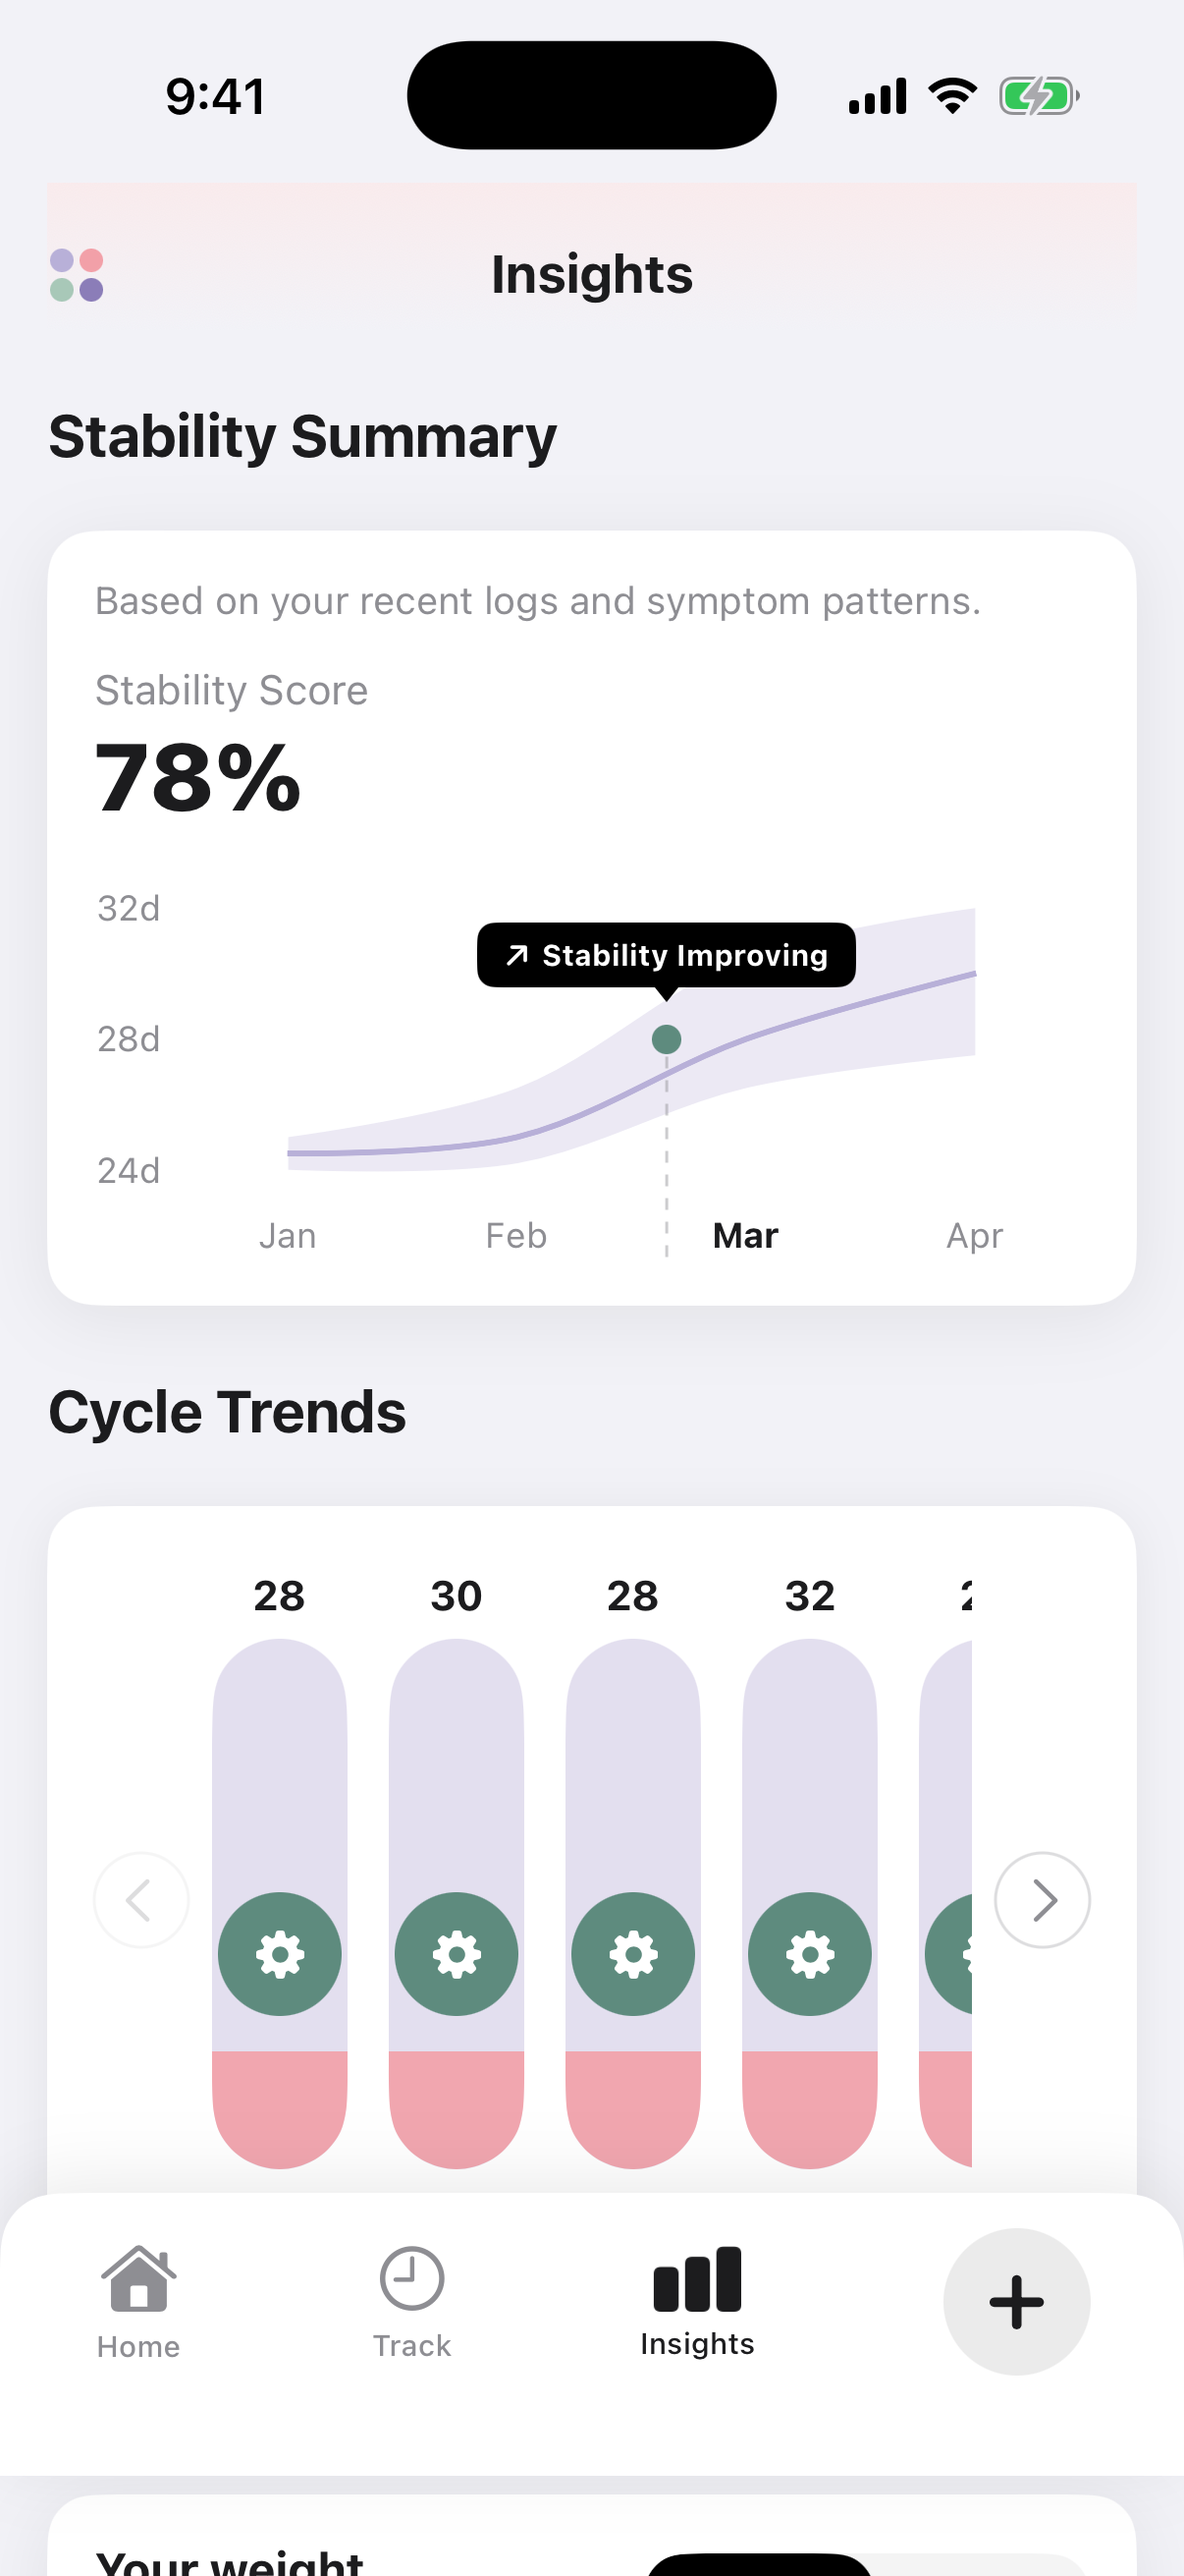
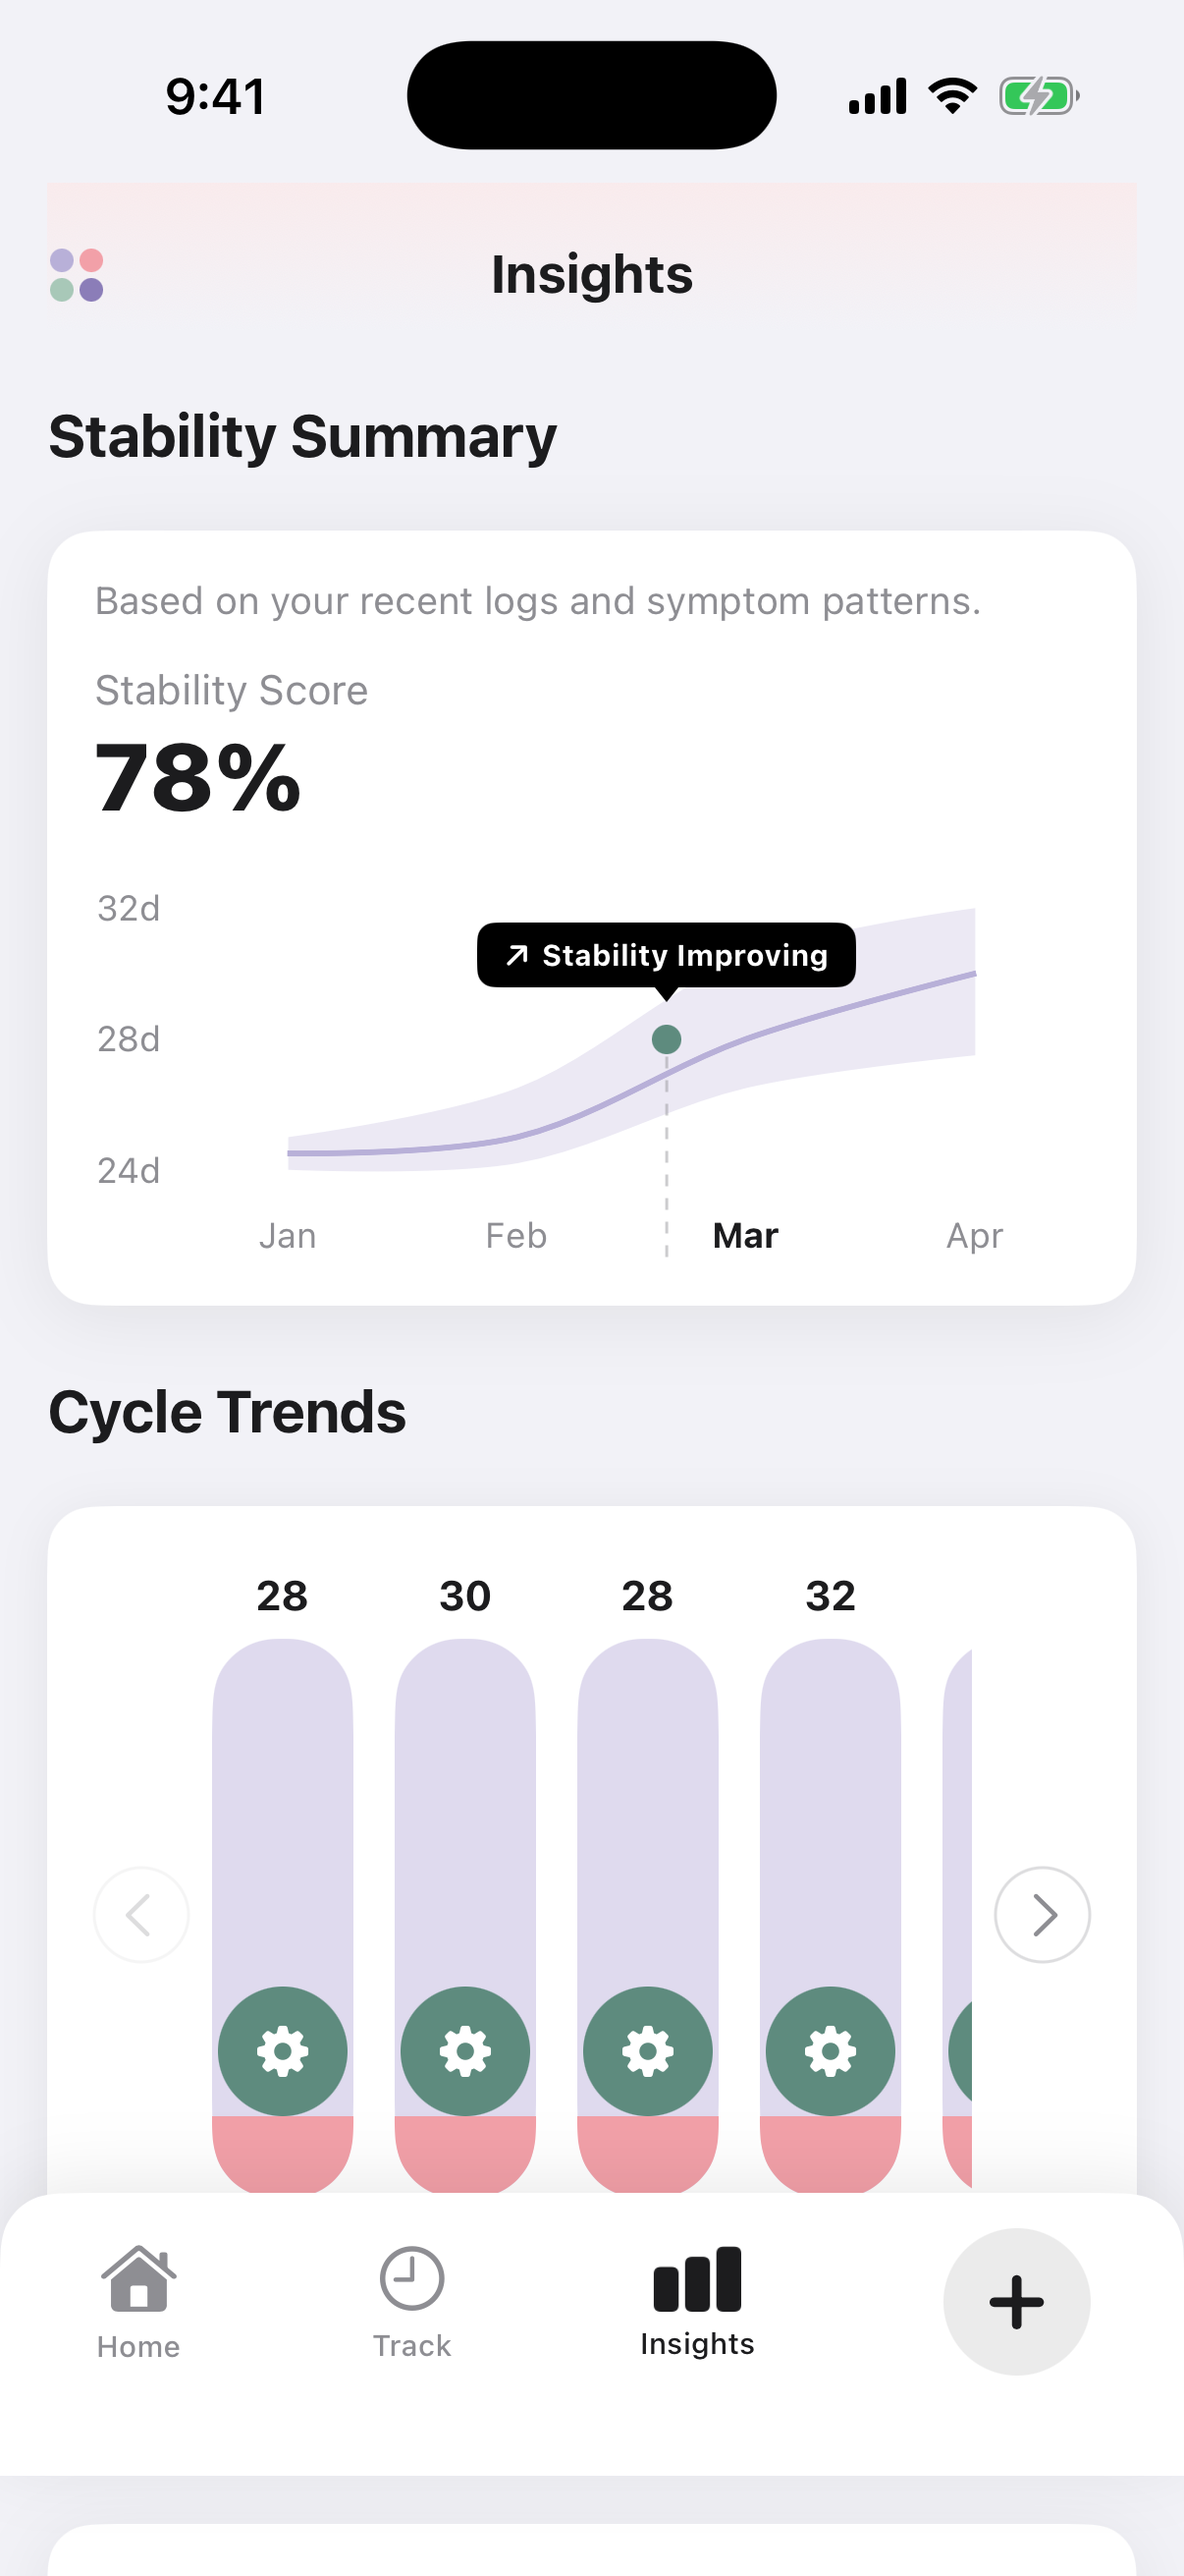
Refined CycleTrendBar proportions: increased pill height and updated gear junction

diff --git a/CycleInsights/InsightsView.swift b/CycleInsights/InsightsView.swift
@@ -427,31 +427,32 @@ private struct CycleTrendBar: View {
                 .foregroundColor(.darkText)
 
             ZStack(alignment: .bottom) {
-                // Full lavender pill background
-                RoundedRectangle(cornerRadius: 24)
-                    .fill(Color(hex: "C8C0E0").opacity(0.5))
-                    .frame(width: 46, height: 180)
+                // Full lavender pill — entire bar height
+                RoundedRectangle(cornerRadius: 22)
+                    .fill(Color(hex: "C4BCE0").opacity(0.55))
+                    .frame(width: 48, height: 190)
 
-                // Small pink bottom section
+                // Pink bottom — only 28pt (small sliver at bottom)
                 UnevenRoundedRectangle(
-                    topLeadingRadius: 0, bottomLeadingRadius: 24,
-                    bottomTrailingRadius: 24, topTrailingRadius: 0
+                    topLeadingRadius: 0, bottomLeadingRadius: 22,
+                    bottomTrailingRadius: 22, topTrailingRadius: 0
                 )
-                .fill(Color(hex: "F2A0A8").opacity(0.9))
-                .frame(width: 46, height: 40)
+                .fill(Color(hex: "F2A0A8"))
+                .frame(width: 48, height: 28)
 
-                // Gear circle at junction
+                // Gear circle — sits at bottom of lavender / top of pink junction
+                // offset(y: -28) means bottom of circle aligns with top of pink section
                 Circle()
                     .fill(Color(hex: "5E8B7E"))
-                    .frame(width: 42, height: 42)
+                    .frame(width: 44, height: 44)
                     .overlay(
                         Image(systemName: "gearshape.fill")
                             .foregroundColor(.white)
-                            .font(.system(size: 16))
+                            .font(.system(size: 17))
                     )
-                    .offset(y: -52)
+                    .offset(y: -28)
             }
-            .frame(width: 46, height: 180)
+            .frame(width: 48, height: 190)
 
             Text(datum.month)
                 .font(.system(size: 12))
